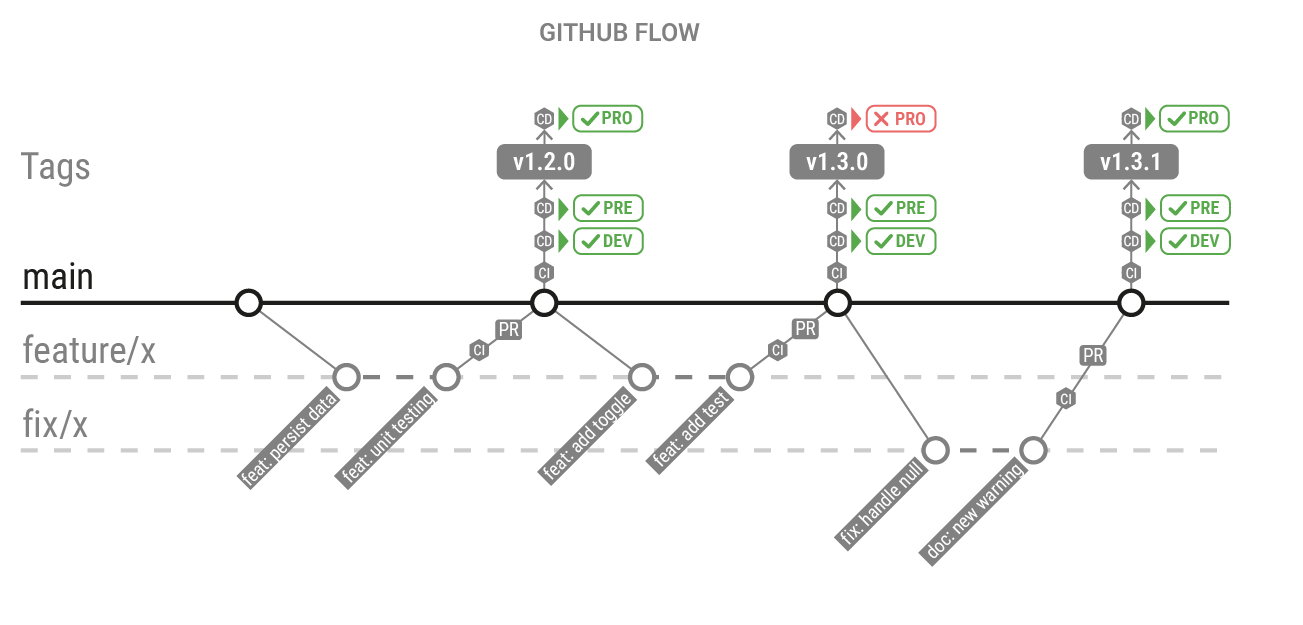
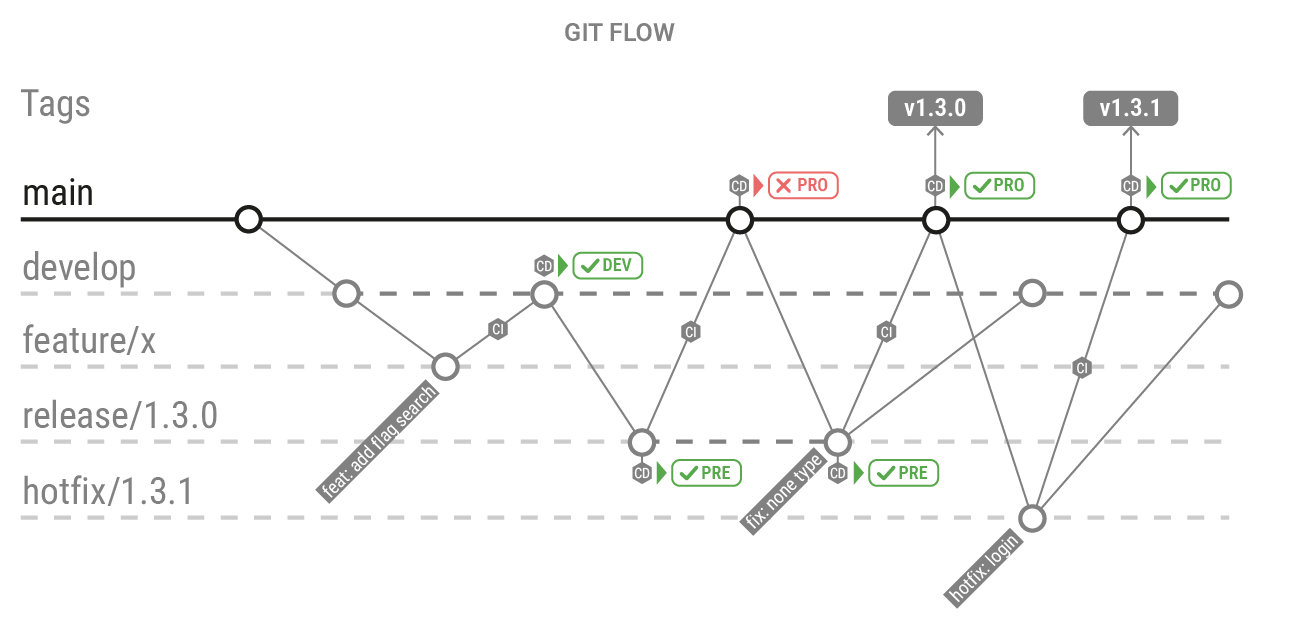
feature: git flow diagram

diff --git a/docs/resources/cheatsheets/my-branch-model-cheatsheet.md b/docs/resources/cheatsheets/my-branch-model-cheatsheet.md
@@ -42,7 +42,7 @@ GitHub Flow is a lightweight branching model built around a single long-lived br
 | __main__         | —            | —           | Always releasable; represents the latest validated state of the product. |
 | __feature/*__    | main         | main        | Implements a change (feature, fix, refactor) in isolation via a PR.      |
 
-![Github flow branch model example](../../assets/images/resources/branching-model-git-flow.png)
+![Github flow branch model example](../../assets/images/resources/branching-model-github-flow.png)
 
 ### Trunk-Based Development
 
@@ -94,40 +94,7 @@ Git Flow is a branching model that separates work into multiple branches, with m
 | __release/*__ | develop      | main + develop     | Prepares a version for release: final fixes, versioning, QA.         |
 | __hotfix/*__     | main         | main + develop     | Fixes urgent production issues without waiting for regular releases. |
 
-```mermaid
-gitGraph
-    commit id: "Initial commit"
-
-    branch develop
-    commit id: "Start development"
-
-    %% Feature branch
-    branch feature/login
-    commit id: "Develop login"
-    checkout develop
-    commit id: "Prepare to merge feature"
-    checkout develop
-    merge feature/login id: "Merge login feature"
-
-    %% Release branch
-    branch release/1.0.0
-    commit id: "Stabilize release"
-    checkout main
-    commit id: "Production ready base"
-    checkout main
-    merge release/1.0.0 id: "Release 1.0.0"
-    checkout develop
-    merge release/1.0.0 id: "Sync develop"
-
-    %% Hotfix branch
-    branch hotfix/critical
-    checkout hotfix/critical
-    commit id: "Hotfix commit"
-    checkout main
-    merge hotfix/critical id: "Apply hotfix to main"
-    checkout develop
-    merge hotfix/critical id: "Sync hotfix to develop"
-```
+![Git flow branch model example](../../assets/images/resources/branching-model-git-flow.png)
 
 ### Release Flow (Microsoft)
 
